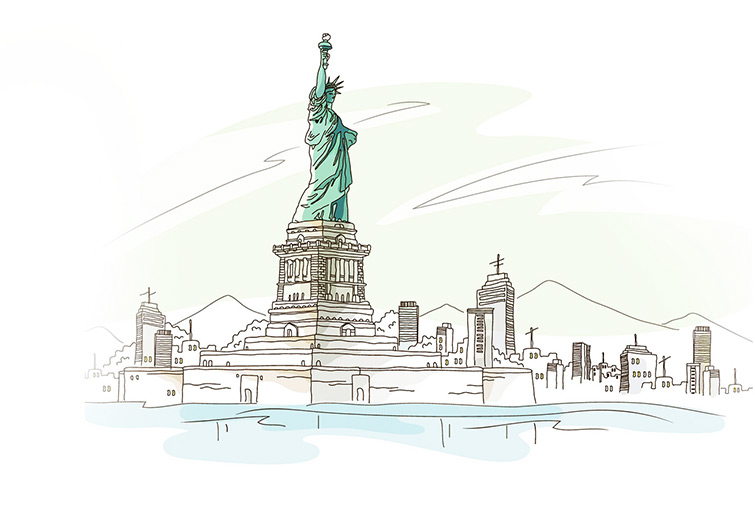
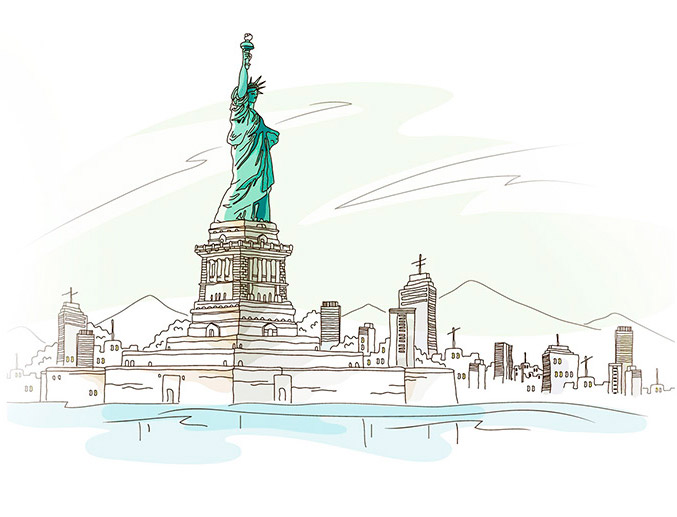
Добавлен адаптив для блока about

diff --git a/markup/components/about/about.scss b/markup/components/about/about.scss
@@ -2,8 +2,8 @@
   background-color: $white;
   border-bottom: 1px solid $light-gray;
   position: relative;
+  max-width: 100%;
   min-width: 320px;
-  width: 100%;
 }
 
 .about-wrapper{
@@ -16,7 +16,6 @@
   margin: 0 auto;
   padding: 140px 0 140px;
   position: relative;
-  width: 100%;
 }
 
 .about-left-content{
@@ -53,7 +52,8 @@
 }
 
 .about-right-content__img{
-  margin-left: 150px;
+  margin-left: 120px;
+  max-width: 90%;
 }
 
 .pencil-block{
@@ -100,5 +100,100 @@
 
   100%{
     height: 861px;
+  }
+}
+
+
+@media all and (max-width: 1380px){
+  .about-right-content__img{
+    margin-left: 80px;
+  }
+}
+
+@media all and (max-width: 1295px){
+  .pencil-block{
+    left: 44.1%;
+    width: 100px;
+  }
+}
+
+@media all and (max-width: 1230px){
+    .about-wrapper{
+      margin: 0 20px;
+    }
+}
+
+@media all and (max-width: 1180px){
+  @keyframes drawLine {
+    0%{
+      height: 561px;
+    }
+
+    100%{
+      height: 761px;
+    }
+  }
+}
+
+@media all and (max-width: 1120px){
+  .pencil-block{
+    left: 43.6%;
+  }
+}
+
+@media all and (max-width: 1100px){
+  .pencil-block{
+    left: 42.7%;
+  }
+}
+
+@media all and (max-width: 1080px){
+  .pencil-block{
+   display: none;
+  }
+
+  .about-right-content__img {
+    margin-left: 40px;
+  }
+
+  .about-wrapper{
+    padding: 40px 0;
+  }
+
+  .about-left-content__description{
+    font-size: 1.15rem;
+  }
+
+  .about-left-content__title{
+    font-size: 2.5rem;
+  }
+}
+
+@media all and (max-width: 780px){
+    .about-right-content{
+      display: none;
+    }
+
+  .about-left-content{
+    width: 100%;
+  }
+
+  .about-left-content__description{
+    font-size: 1rem;
+  }
+}
+
+
+@media all and (max-width: 720px){
+  .about-left-content__title{
+    font-size: 1.5rem;
+  }
+
+  .about-left-content__title{
+    margin: 0 0 50px;
+  }
+
+  .about-left-content__title:after{
+    top: 50px;
   }
 }

diff --git a/markup/components/about/about.js b/markup/components/about/about.js
@@ -1,17 +1,40 @@
 /*eslint-disable*/
-new WOW().init();
 
-var $aboutBlockOffset = $('.about').offset().top;
-var $setActiveToPencilBlock = false;
-var $pencilBlock = $('.pencil-block');
 
-$(window).on('scroll', function () {
-    var $scrollWindow = $(this).scrollTop();
-    if(!$setActiveToPencilBlock){
-        if ($scrollWindow >= ($aboutBlockOffset - 200)) {
-            $pencilBlock.addClass('active');
-            $setActiveToPencilBlock = true;
-        }
+$(document).ready(function(){
+    var wow = new WOW();
+
+    var $aboutBlock = $('.about');
+    var $aboutBlockOffset = $aboutBlock ? $aboutBlock.offset().top : 0;
+    var $setActiveToPencilBlock = false;
+    var $pencilBlock = $('.pencil-block');
+    var $wowInit = false;
+    var $windowWidth = $(window).width();
+
+    if($windowWidth > 780 && !$wowInit){
+        wow.init();
     }
+
+
+    $(window).on('resize', function(){
+        var $windowWidth = $(this).width();
+        if($windowWidth > 780 && !$wowInit){
+            wow.init();
+        } else if($windowWidth <= 780 && $wowInit){
+            wow.disabled();
+        }
+    });
+
+    $(window).on('scroll', function () {
+        var $scrollWindow = $(this).scrollTop();
+        if(!$setActiveToPencilBlock){
+            if ($scrollWindow >= ($aboutBlockOffset - 200)) {
+                $pencilBlock.addClass('active');
+                $setActiveToPencilBlock = true;
+            }
+        }
+    });
 });
+
+
 /*eslint-enable*/
